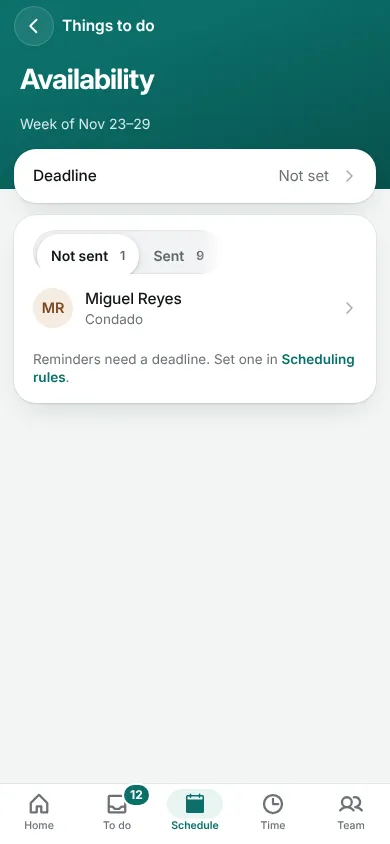
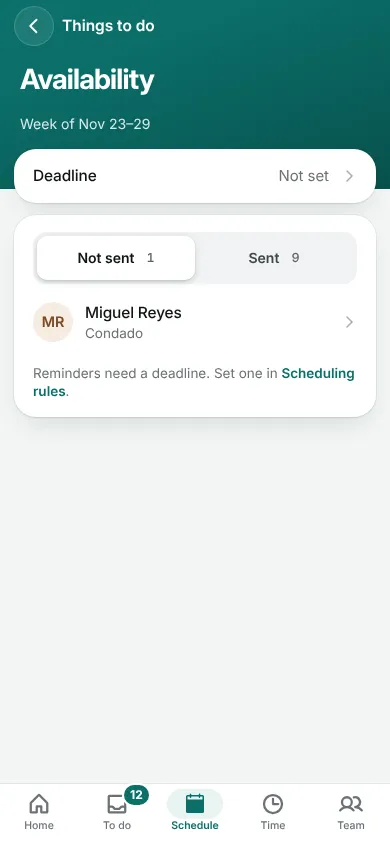
Shots and reports: C10 Not sent / Sent recaptured (Owner, Manager), top bar forced-colour before/after
Claude-Session: https://claude.ai/code/session_01N2UNZGy5hsmqBCJRAsMQ9C

diff --git a/docs/handoffs/2026-11-23-phase2-cloud/reports/package-m.md b/docs/handoffs/2026-11-23-phase2-cloud/reports/package-m.md
@@ -48,3 +48,12 @@ None found.
 ## Proposed end-sweep rows
 - C12 Done at 390: with the status on the right, the day and the hours of a can't-work row wrap onto two lines
   ("Thu, Dec 3" / "2:00 PM – 10:00 PM"); readable, not cut.
+
+## C10 follow-up (Jose, Nov 23: "the not sent button, that is wrong")
+- 9d53bcb3 (`schedule-tools.css`, test `availability-segments.test.ts`): Not sent / Sent is the kit's segmented control in
+  the people card for Owner and Manager. At 390 the chosen pill hung past the left of its grey track and the track ended
+  faded after Sent (the filter chips' scroll fade). Now one grey track wraps both segments with an even 4px inset, each
+  segment is half and 44px tall, the chosen one is the white pill inside the track, the counts are the kit's grey
+  numerals, and labels wrap at 200% text.
+- Checked for Owner and Manager at 320, 390, 390 with 200% text, 1440 and 1440 with 200% text (no overflow, clipping or
+  overlap, axe 0) and in forced colours (the chosen segment has the Highlight outline). C10-o and C10-m shots replaced.

diff --git a/docs/handoffs/2026-11-23-phase2-cloud/reports/sweep-z3-a.md b/docs/handoffs/2026-11-23-phase2-cloud/reports/sweep-z3-a.md
@@ -48,3 +48,10 @@ passes (3209 tests); typecheck clean.
 `shots/sweep-z3-a/img/<row>[-en|-es]-<before|after>-<390|1440>.webp` (quality 80), viewport-height, forced colours on;
 `rows.json` has one entry per row (`<row>-fc`). Before shots are from fe25235e (origin at da3283a0 merged, before any
 Z3 change).
+
+## Shell follow-up (lead, Nov 23, 15:37)
+- 5511429e: in forced colours the top bar's Search, bell and account menu (desktop) and the phone header's bell, avatar
+  and Add shift get a 1px ButtonText inset outline, as the kit buttons (baca629a).
+- b35fb837: the bell's glyph was set to the band's white with layered !important and stayed white on the forced
+  Canvas (the bell circle was empty, before and after the edge); it is now drawn in ButtonText.
+- Checked on the Owner (Schedule) and Employee (Home), 390 and 1440; row `SHELL-fc` in rows.json (before and after).
